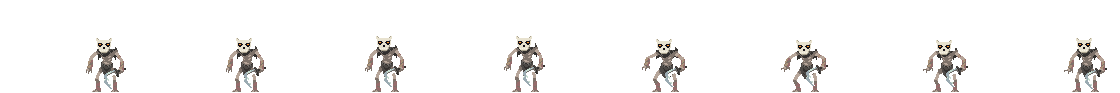
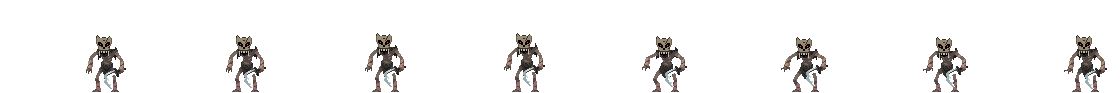
Grimalkin plus effrayant, plein écran sur téléphone

diff --git a/jeu.js b/jeu.js
@@ -11,6 +11,7 @@ let decor = null;         // formes du décor, tirées une fois
 let cendres = [];         // cendres, ou braises en phase 2, dans l'image
 let braises = [];         // braises qui montent des flammes : { x, y, vx, vy, t0 }
 let souffles = [];        // buée du héros essoufflé : { x, y, vx, vy, t0 }
+let fumees = [];          // fumée noire au-dessus des flammes : { x, y, vx, vy, t0 }
 let eclair = -1e9;        // instant du dernier éclair, en temps réel
 
 const boss = { x: 0, w: S.bossLargeur };
@@ -305,6 +306,20 @@ function relancer() {
   if (jeu.etat === 'victoire' && jeu.t >= S.victoireAttenteMs) recommencer();
 }
 
+// Plein écran et écran à l'horizontale, demandés au premier geste : les navigateurs l'exigent.
+// (Sur iPhone, le navigateur ne le permet pas : il faut ajouter le jeu à l'écran d'accueil.)
+let essaisPleinEcran = 0;
+function pleinEcran() {
+  if (essaisPleinEcran >= 2 || document.fullscreenElement || document.webkitFullscreenElement) return;
+  const el = document.documentElement;
+  const demande = el.requestFullscreen || el.webkitRequestFullscreen;
+  if (!demande) return;
+  essaisPleinEcran++;
+  Promise.resolve(demande.call(el))
+    .then(() => (screen.orientation && screen.orientation.lock ? screen.orientation.lock('landscape') : null))
+    .catch(() => {});
+}
+
 function demarrer() {
   if (jeu.etat !== 'depart' || portrait()) return false;
   jeu.etat = 'combat';
@@ -338,12 +353,13 @@ function relacher(e) {
   // Un toucher bref et immobile à gauche est une parade
   if (p && e.type === 'pointerup' && p.cote === 'gauche' && p.depl < S.zoneMortePx && e.timeStamp - p.t0 <= S.paradeToucherMaxMs) parer();
 }
-window.addEventListener('pointerup', e => { relancer(); relacher(e); });
+window.addEventListener('pointerup', e => { pleinEcran(); relancer(); relacher(e); });
 window.addEventListener('pointercancel', relacher);
 
 window.addEventListener('keydown', e => {
   if (['ArrowLeft', 'ArrowRight', 'Space', 'ShiftLeft', 'ShiftRight', 'KeyX'].includes(e.code)) e.preventDefault();
   initAudio();
+  pleinEcran();
   if (e.repeat) return;
   clavier.add(e.code);
   if (demarrer()) return;
@@ -638,29 +654,37 @@ function geometrieQueues() {
   return queues;
 }
 
+// Flamme sombre et déchiquetée : plusieurs langues qui se tordent, du rouge noir à l'or pâle
 function dessinerFlamme(x, y, taille, graine) {
   const F = S.queues.flamme, t = rt / 1000;
   ctx.save();
   ctx.globalCompositeOperation = 'lighter';
   const R = taille * F.halo;
   const g = ctx.createRadialGradient(x, y, 0, x, y, R);
-  g.addColorStop(0, `rgba(255,140,40,${F.haloAlpha})`);
-  g.addColorStop(1, 'rgba(255,100,20,0)');
+  g.addColorStop(0, `rgba(${F.haloCouleur},${F.haloAlpha})`);
+  g.addColorStop(1, `rgba(${F.haloCouleur},0)`);
   ctx.fillStyle = g;
   ctx.fillRect(x - R, y - R, R * 2, R * 2);
   ctx.restore();
-  for (const [couleur, k] of [['#c8321a', 1], ['#ff8a1f', 0.72], ['#ffe08a', 0.42]]) {
-    const h = taille * k * (1 + 0.22 * Math.sin(t * Math.PI * 2 * F.scintillementHz + graine * 2.3 + k * 5));
-    const w = taille * F.largeur * k;
-    const sway = Math.sin(t * Math.PI * 2 * F.scintillementHz * 0.7 + graine) * taille * 0.16;
+  F.couches.forEach((couleur, c) => {
+    const echelle = 1 - c * 0.24;
     ctx.fillStyle = couleur;
-    ctx.beginPath();
-    ctx.moveTo(x - w, y);
-    ctx.quadraticCurveTo(x - w, y - h * 0.55, x + sway, y - h);
-    ctx.quadraticCurveTo(x + w, y - h * 0.5, x + w, y);
-    ctx.quadraticCurveTo(x, y + w * 0.7, x - w, y);
-    ctx.fill();
-  }
+    for (let i = 0; i < F.langues; i++) {
+      const u = i / (F.langues - 1) - 0.5;                   // -0.5 à 0.5 : position de la langue
+      const graineI = graine * 3.1 + i * 1.9 + c * 0.7;
+      const tremble = Math.sin(t * Math.PI * 2 * F.scintillementHz + graineI);
+      const h = taille * echelle * (1.15 - Math.abs(u) * 0.9) * (1 + 0.28 * tremble);
+      const cx = x + u * taille * 0.9 * echelle + Math.sin(t * 7 + graineI) * taille * 0.1;
+      const pointe = cx + Math.sin(t * Math.PI * 2 * F.scintillementHz * 0.6 + graineI) * taille * 0.3 + u * taille * 0.5;
+      const w = taille * F.largeur * echelle;
+      ctx.beginPath();
+      ctx.moveTo(cx - w, y);
+      ctx.quadraticCurveTo(cx - w * 0.9, y - h * 0.5, pointe, y - h);
+      ctx.quadraticCurveTo(cx + w * 0.8, y - h * 0.45, cx + w, y);
+      ctx.quadraticCurveTo(cx, y + w * 0.5, cx - w, y);
+      ctx.fill();
+    }
+  });
 }
 
 function dessinerQueues() {
@@ -668,16 +692,38 @@ function dessinerQueues() {
   ctx.lineCap = 'round';
   ctx.lineJoin = 'round';
   geometrieQueues().forEach((pts, i) => {
-    for (let k = 1; k < pts.length; k++) {
-      const s = k / (pts.length - 1);
-      ctx.strokeStyle = s > 0.7 ? Q.couleurPointe : Q.couleur;
-      ctx.lineWidth = Q.epaisseur * (1 - 0.65 * s);
+    const n = pts.length - 1;
+    // échine carbonisée
+    for (let k = 1; k <= n; k++) {
+      const s = k / n;
+      ctx.strokeStyle = Q.couleur;
+      ctx.lineWidth = Q.epaisseur * (1 - 0.62 * s);
       ctx.beginPath();
       ctx.moveTo(pts[k - 1][0], pts[k - 1][1]);
       ctx.lineTo(pts[k][0], pts[k][1]);
       ctx.stroke();
     }
-    const bout = pts[pts.length - 1];
+    // vertèbres, de plus en plus fines
+    for (let k = 1; k < n; k++) {
+      const s = k / n;
+      const dx = pts[k + 1][0] - pts[k - 1][0], dy = pts[k + 1][1] - pts[k - 1][1];
+      ctx.fillStyle = Q.os;
+      ctx.strokeStyle = Q.osContour;
+      ctx.lineWidth = 1;
+      ctx.beginPath();
+      ctx.ellipse(pts[k][0], pts[k][1], Q.vertebre * (1 - 0.55 * s), Q.vertebre * (1 - 0.55 * s) * 0.6, Math.atan2(dy, dx), 0, Math.PI * 2);
+      ctx.fill();
+      ctx.stroke();
+    }
+    // la braise court dans l'échine, vers la flamme
+    ctx.strokeStyle = `rgba(${Q.braiseFissure},${0.75 * f})`;
+    ctx.lineWidth = 1.5;
+    ctx.beginPath();
+    const debut = Math.floor(n * Q.braiseFissureDebut);
+    ctx.moveTo(pts[debut][0], pts[debut][1]);
+    for (let k = debut + 1; k <= n; k++) ctx.lineTo(pts[k][0], pts[k][1]);
+    ctx.stroke();
+    const bout = pts[n];
     if (f > 0.02) dessinerFlamme(bout[0], bout[1], Q.flamme.taille * f, i);
   });
 }
@@ -702,9 +748,15 @@ function majEffets(dt) {
         const bout = pts[pts.length - 1];
         braises.push({ x: bout[0], y: bout[1], vx: (Math.random() - 0.5) * Q.braiseVitesse, vy: -Q.braiseVitesse * (0.5 + Math.random()), t0: rt });
       }
+      if (Math.random() < Q.fumeeParSeconde * f * dt / 1000 && fumees.length < Q.fumeeMax) {
+        const bout = pts[pts.length - 1];
+        fumees.push({ x: bout[0], y: bout[1] - Q.flamme.taille * f * 0.6, vx: (Math.random() - 0.3) * 14, vy: -Q.fumeeMonte * (0.6 + Math.random() * 0.6), t0: rt });
+      }
     }
   }
   braises = braises.filter(p => rt - p.t0 < Q.braiseVie);
+  fumees = fumees.filter(p => rt - p.t0 < Q.fumeeVie);
+  for (const p of fumees) { p.x += p.vx * dt / 1000; p.y += p.vy * dt / 1000; }
   for (const p of braises) { p.x += p.vx * dt / 1000; p.y += p.vy * dt / 1000; }
 
   // Le héros à bout de souffle laisse échapper de la buée
@@ -729,8 +781,8 @@ function dessinerCiel() {
   ctx.fillRect(0, 0, W, H);
   const mx = W * C.lune.x, my = H * C.lune.y, R = C.lune.halo * kui;
   const h = ctx.createRadialGradient(mx, my, 0, mx, my, R);
-  h.addColorStop(0, `rgba(217,212,230,${C.lune.haloAlpha})`);
-  h.addColorStop(1, 'rgba(217,212,230,0)');
+  h.addColorStop(0, `rgba(${C.lune.haloCouleur},${C.lune.haloAlpha})`);
+  h.addColorStop(1, `rgba(${C.lune.haloCouleur},0)`);
   ctx.fillStyle = h;
   ctx.fillRect(mx - R, my - R, R * 2, R * 2);
   ctx.fillStyle = C.lune.couleur;
@@ -916,8 +968,8 @@ function dessinerHalo() {
   if (f < 0.02) return;
   const y = S.solY - H.hauteur;
   const g = ctx.createRadialGradient(boss.x, y, 0, boss.x, y, H.rayon);
-  g.addColorStop(0, `rgba(255,120,40,${H.alpha * f})`);
-  g.addColorStop(1, 'rgba(255,100,20,0)');
+  g.addColorStop(0, `rgba(${H.couleur},${H.alpha * f})`);
+  g.addColorStop(1, `rgba(${H.couleur},0)`);
   ctx.fillStyle = g;
   ctx.fillRect(boss.x - H.rayon, y - H.rayon, H.rayon * 2, H.rayon * 2);
 }
@@ -1015,6 +1067,13 @@ function dessinerImpactBlanc() {
 
 function dessinerParticulesMonde() {
   const Q = S.queues, G = S.signaux;
+  for (const p of fumees) {
+    const a = (rt - p.t0) / Q.fumeeVie;
+    ctx.fillStyle = `rgba(14,10,12,${Q.fumeeAlpha * (1 - a)})`;
+    ctx.beginPath();
+    ctx.arc(p.x, p.y, Q.fumeeTaille * (0.7 + a * 1.8), 0, Math.PI * 2);
+    ctx.fill();
+  }
   for (const p of braises) {
     const a = 1 - (rt - p.t0) / Q.braiseVie;
     ctx.fillStyle = `rgba(255,${Math.round(120 + 100 * a)},50,${a})`;

diff --git a/settings.js b/settings.js
@@ -150,8 +150,8 @@ const SETTINGS = {
     graine: 11,
     marge: 260,               // débord de chaque côté de l'arène
     ciel: {
-      haut: '#05050a', bas: '#1b1521',
-      lune: { x: 0.74, y: 0.2, rayon: 30, couleur: '#d9d4e6', halo: 170, haloAlpha: 0.32 }, // x, y : part de l'écran
+      haut: '#040307', bas: '#190d13',
+      lune: { x: 0.74, y: 0.2, rayon: 30, couleur: '#b9a79d', halo: 170, haloAlpha: 0.2, haloCouleur: '170,60,50' }, // x, y : part de l'écran
       nuages: [
         { x: 0.6, y: 0.19, largeur: 300, hauteur: 26, alpha: 0.55 },
         { x: 0.82, y: 0.25, largeur: 220, hauteur: 20, alpha: 0.45 },
@@ -177,7 +177,7 @@ const SETTINGS = {
       jointEcart: 70,           // écart des joints verticaux à la ligne du sol
       jointEvase: 0.7,          // élargissement avec la profondeur
       fissures: 16, fissureLongueur: 46,
-      lumiere: { rayon: 360, alpha: 0.2, couleur: '255,140,60', aplat: 0.26 },
+      lumiere: { rayon: 360, alpha: 0.2, couleur: '200,60,28', aplat: 0.26 },
     },
     brume: [
       { vitesse: 7, hauteur: 70, largeur: 560, y: -8, alpha: 0.11, devant: false },
@@ -187,14 +187,14 @@ const SETTINGS = {
     cendres: { nombre: 70, vx: 18, vy: 24, vent: 8, taille: 1.8, alpha: 0.55, couleur: '#c2bacb' },
     braises: { vxFacteur: 2.2, vyFacteur: 1.3, couleur: '#ff8a2a' }, // la phase 2 transforme les cendres en braises
     premierPlan: { parallaxe: -0.22, couleur: '#020204', alpha: 0.93, largeur: 80, fondu: 130, x: 30 },
-    vignette: { alpha: 0.62, depart: 0.38 },     // départ : part du rayon où l'assombrissement commence
-    halo: { rayon: 230, alpha: 0.3, hauteur: 80 }, // derrière le boss
+    vignette: { alpha: 0.72, depart: 0.34 },     // départ : part du rayon où l'assombrissement commence
+    halo: { rayon: 230, alpha: 0.26, hauteur: 80, couleur: '190,40,16' }, // derrière le boss
     haloHeros: { rayon: 90, alpha: 0.14, hauteur: 40, couleur: '225,215,195' }, // lueur pâle qui détache le héros du décor
     eclair: { ms: 150, alpha: 0.5, couleur: '255,235,220' }, // à l'explosion d'un Sort
     phase2: { rougeAlpha: 0.09 },
   },
 
-  // Les cinq queues de Grimalkin (flammes au bout de chacune)
+  // Les cinq queues de Grimalkin : des échines d'os calcinées, des flammes sombres au bout
   queues: {
     nombre: 5,
     baseDx: 9,                // départ de la queue derrière le dos, en pixels de sprite
@@ -202,19 +202,33 @@ const SETTINGS = {
     angles: [28, 56, 84, 112, 138], // degrés au-dessus de l'horizontale arrière
     longueur: 104,            // unités
     longueurVariation: 0.16,  // écart de longueur d'une queue à l'autre
-    epaisseur: 9,
+    epaisseur: 8,
     ondulation: 17,
     ondulationHz: 1.7,
-    couleur: '#322c30',
-    couleurPointe: '#6a2f16',
-    segments: 14,
-    flamme: { taille: 25, largeur: 0.5, scintillementHz: 9, halo: 2.4, haloAlpha: 0.38 },
+    couleur: '#100b0b',       // chair carbonisée
+    os: '#6a604f',            // vertèbres
+    osContour: '#1d1713',
+    vertebre: 4.2,            // demi-longueur d'une vertèbre à la base
+    braiseFissure: '255,80,18', // la braise qui court dans l'échine, vers la pointe
+    braiseFissureDebut: 0.45, // part de la queue où elle commence
+    segments: 18,
+    flamme: {
+      taille: 27, langues: 5, largeur: 0.34, scintillementHz: 11,
+      halo: 2.6, haloAlpha: 0.3, haloCouleur: '200,40,14',
+      couches: ['#4a0a06', '#a82a0a', '#f06a16', '#ffd27a'],
+    },
     phase2Facteur: 1.4,       // flammes plus grandes en phase 2
     vacilleFacteur: 0.55,     // et plus faibles quand il vacille
     braisesParSeconde: 5,     // par queue
     braiseVie: 900,           // ms
     braiseVitesse: 40,
     braisesMax: 90,
+    fumeeParSeconde: 3,       // par queue
+    fumeeVie: 1700,           // ms
+    fumeeMonte: 28,
+    fumeeTaille: 7,
+    fumeeAlpha: 0.32,
+    fumeeMax: 60,
   },
 
   // Vie et endurance du héros, rendues par l'image plutôt que par des barres

diff --git a/index.html b/index.html
@@ -4,9 +4,17 @@
 <meta charset="utf-8">
 <meta name="viewport" content="width=device-width, initial-scale=1, maximum-scale=1, user-scalable=no, viewport-fit=cover">
 <title>Stagger</title>
+<meta name="theme-color" content="#000000">
+<meta name="mobile-web-app-capable" content="yes">
+<meta name="apple-mobile-web-app-capable" content="yes">
+<meta name="apple-mobile-web-app-status-bar-style" content="black-translucent">
+<meta name="apple-mobile-web-app-title" content="Stagger">
+<link rel="manifest" href="manifest.json">
+<link rel="apple-touch-icon" href="icones/icone-192.png">
+<link rel="icon" href="icones/icone-192.png">
 <style>
-  html, body { margin: 0; height: 100%; background: #000; overflow: hidden; touch-action: none; }
-  canvas { display: block; width: 100vw; height: 100vh; background: #000; }
+  html, body { margin: 0; height: 100%; background: #000; overflow: hidden; overscroll-behavior: none; touch-action: none; }
+  canvas { position: fixed; top: 0; left: 0; width: 100%; height: 100%; display: block; background: #000; touch-action: none; }
 </style>
 </head>
 <body>

diff --git a/README.md b/README.md
@@ -23,7 +23,8 @@ Au clavier, pour tester sur PC : flèches pour marcher, espace pour attaquer, Ma
 
 1. Ouvrir le lien dans le navigateur du téléphone.
 2. Tourner le téléphone à l'horizontale.
-3. Après une mise à jour du dépôt, attendre une à deux minutes puis recharger la page. Si rien ne change, ouvrir le lien en navigation privée.
+3. Toucher l'écran une fois : le jeu passe en plein écran et reste à l'horizontale (Android). Sur iPhone, le navigateur ne le permet pas : ouvrir le menu Partager, puis « Sur l'écran d'accueil », et lancer le jeu depuis l'icône.
+4. Après une mise à jour du dépôt, attendre une à deux minutes puis recharger la page. Si rien ne change, ouvrir le lien en navigation privée.
 
 ## État des lots
 
